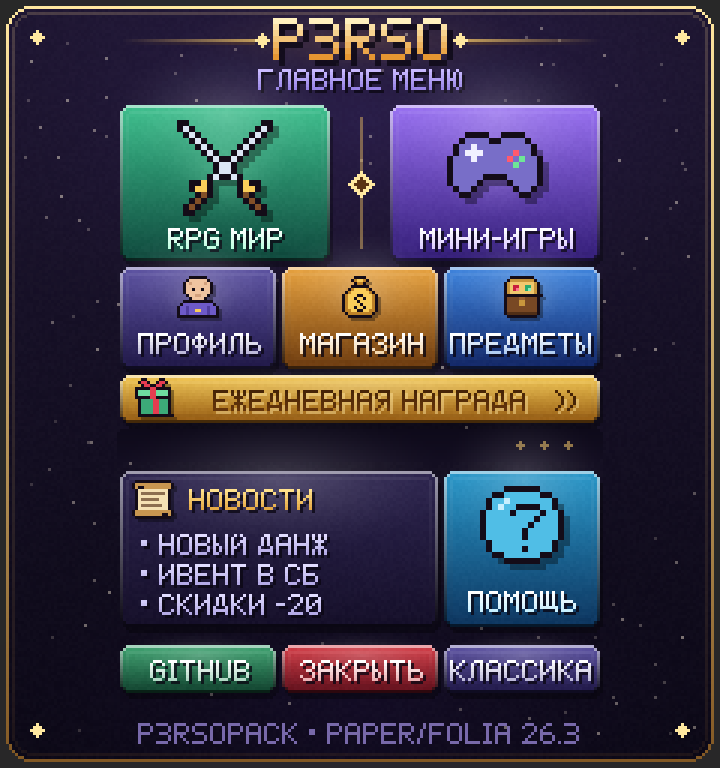
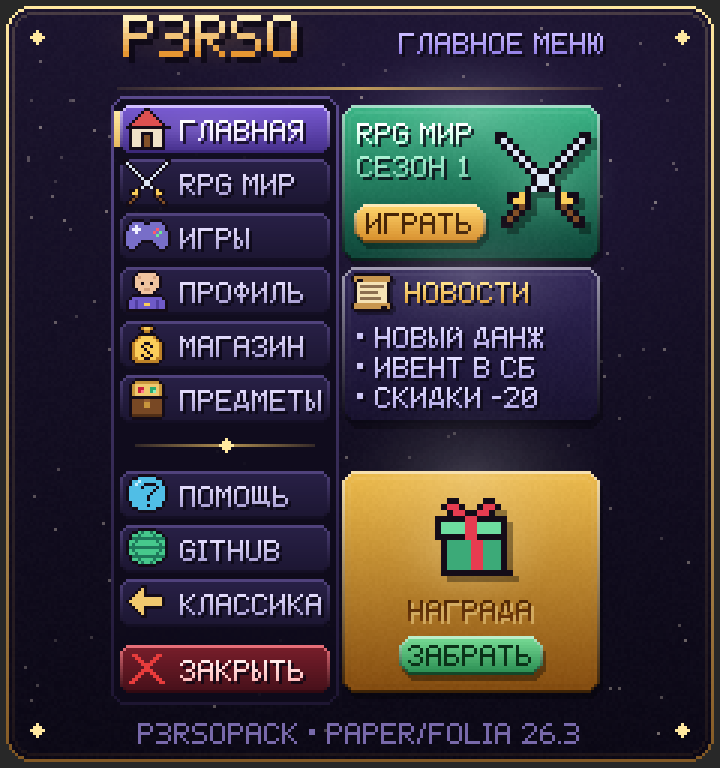
Full-screen /menu redesigned as a left sidebar layout

diff --git a/src/test/java/ru/p3rso/pack/DefaultsAndPackTest.java b/src/test/java/ru/p3rso/pack/DefaultsAndPackTest.java
@@ -88,10 +88,11 @@ class DefaultsAndPackTest {
         assertTrue(hub.hidePlayerInventory());
         java.util.function.Function<String, java.util.List<Integer>> slots = k -> hub.items().stream()
                 .filter(i -> i.key().equals(k)).findFirst().orElseThrow().slots();
-        assertEquals(java.util.List.of(0, 1, 2, 3, 9, 10, 11, 12, 18, 19, 20, 21), slots.apply("rpg"));
-        assertEquals(java.util.List.of(45, 46, 47, 48, 49, 50, 51, 52, 53), slots.apply("reward"));
-        assertEquals(java.util.List.of(54, 55, 56, 57, 58, 59, 63, 64, 65, 66, 67, 68, 72, 73, 74, 75, 76, 77), slots.apply("news"));
-        assertEquals(java.util.List.of(84, 85, 86), slots.apply("close"), "хотбар: виртуальные слоты 81..89");
+        assertEquals(java.util.List.of(9, 10, 11, 12), slots.apply("rpg"), "боковая панель: 4 ячейки ряда 1");
+        assertEquals(java.util.List.of(31, 32, 33, 34, 35, 40, 41, 42, 43, 44, 49, 50, 51, 52, 53), slots.apply("news"));
+        assertEquals(java.util.List.of(58, 59, 60, 61, 62, 67, 68, 69, 70, 71, 76, 77, 78, 79, 80, 85, 86, 87, 88, 89), slots.apply("reward"),
+                "награда занимает инвентарь игрока и хотбар справа");
+        assertEquals(java.util.List.of(81, 82, 83, 84), slots.apply("close"), "хотбар: виртуальные слоты 81..89");
         var close = hub.items().stream().filter(i -> i.key().equals("close")).findFirst().orElseThrow();
         assertEquals("p3rso:p3rsopack_invisible", close.itemModel());
         assertEquals("p3rso:menu", close.tooltipStyle());

diff --git a/README.md b/README.md
@@ -168,7 +168,7 @@ sapphire_helmet:
 
 ### Готовые меню
 
-**`/menu` — полноэкранное меню** (`guis/hub_menu.yml`): кнопки расположены где угодно на картинке, а не по сетке
+**`/menu` — полноэкранное меню с боковой панелью** (`guis/hub_menu.yml`): разделы в столбце слева сверху, справа баннер, новости и награда; кнопки расположены где угодно на картинке, а не по сетке
 сундука; фон выходит за края окна, инвентарь игрока на время меню скрыт и тоже стал частью меню.
 
 <p align="center"><img src="docs/hub_menu.png" width="480" alt="Полноэкранное меню"></p>
